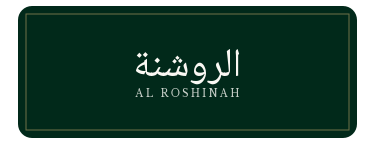
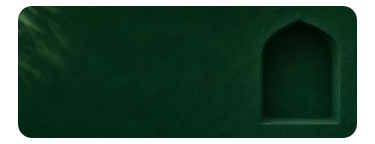
The member card as a picture: Al Roshinah's card is a green plaster wall with the arched niche its name comes from, the niche holds the visit count and is lit while a gift is waiting, on the page and on the Wallet strip; a large QR block under the card; the join preview shows the same card face; gla

diff --git a/web/src/app/visit.css b/web/src/app/visit.css
@@ -198,3 +198,37 @@ img.vc-mark { width: auto; height: 15cqw; }
   .look-matte .ow-side > .ow-chip:not(.ow-lock) { grid-area: lang; }
 }
 .look-matte .ow-sample { letter-spacing: 0.02em; text-transform: none; font-weight: 500; line-height: 1.45; padding: 8px 12px; }
+
+/* ---- The card as a picture (lib/venueArt.ts): the venue's own subject is the face of the card. The open space in
+   the picture holds the visit count; the second picture (the light on) fades in while a gift is waiting. The QR sits
+   under the card, large, where a till scanner reads it fastest. In Arabic the picture is mirrored with the text. ---- */
+.vca { padding: 0; overflow: hidden; isolation: isolate; border-radius: 4.6cqw; background: var(--bg); box-shadow: 0 26px 60px rgb(0 0 0 / 0.42), inset 0 0 0 1px rgb(255 255 255 / 0.1); }
+.vca-face { position: absolute; inset: 0; width: 100%; height: 100%; object-fit: cover; z-index: -2; }
+.vca-lit { opacity: 0; transition: opacity 1.4s ease; z-index: -1; }
+.vca.lit .vca-lit { opacity: 1; }
+[dir="rtl"] .vca-face { transform: scaleX(-1); }
+.vca-shade { position: absolute; inset: 0; z-index: -1; background: linear-gradient(to right, rgb(0 14 8 / 0.36), rgb(0 14 8 / 0.1) 46%, transparent 60%); }
+[dir="rtl"] .vca-shade { background: linear-gradient(to left, rgb(0 14 8 / 0.36), rgb(0 14 8 / 0.1) 46%, transparent 60%); }
+.vca::after { content: ""; position: absolute; inset: 0; border-radius: inherit; box-shadow: inset 0 0 0 1px rgb(255 255 255 / 0.12); pointer-events: none; }
+.vca .vca-mark { position: absolute; inset-block-start: 6.6cqw; inset-inline-start: 6.6cqw; }
+.vca-who { position: absolute; inset-block-end: 6.4cqw; inset-inline-start: 6.6cqw; max-width: 50%; }
+.vca-who .vc-name { margin: 0; font-size: clamp(17px, 5.4cqw, 24px); }
+.vca-who .vc-since { margin-block-start: 1.2cqw; color: rgb(255 255 255 / 0.78); }
+.vca-count { position: absolute; margin: 0; display: grid; align-content: center; justify-items: center; gap: 1cqw; text-align: center; }
+.vca-count b { font: 400 clamp(34px, 13.5cqw, 60px)/1 var(--serif); font-variant-numeric: lining-nums tabular-nums; color: var(--text); text-shadow: 0 1px 16px rgb(0 0 0 / 0.5); }
+.vca-count small { font-size: clamp(12px, 3.1cqw, 14px); color: rgb(255 255 255 / 0.84); text-shadow: 0 1px 10px rgb(0 0 0 / 0.5); }
+.vq { display: grid; grid-template-columns: auto minmax(0, 1fr); align-items: center; gap: 18px; margin-block-start: 14px; padding: 14px; border: 1px solid var(--line); border-radius: var(--r-lg); background: var(--bg); }
+.vq-qr { display: block; width: 132px; height: 132px; padding: 10px; border-radius: 12px; background: var(--text); image-rendering: pixelated; }
+.vq-lead { font: 400 19px/1.25 var(--serif); }
+.vq-code { margin-block-start: 10px; }
+.vq-code small { display: block; color: var(--muted); font-size: var(--fs-sm); }
+.vq-code b { display: block; font: 400 30px/1.15 var(--serif); letter-spacing: 0.12em; font-variant-numeric: lining-nums tabular-nums; }
+.vq-last { margin-block-start: 6px; color: var(--muted); font-size: var(--fs-sm); }
+@media (max-width: 350px) { .vq { gap: 12px; } .vq-qr { width: 112px; height: 112px; } }
+/* The join page's preview is the same card face. */
+html[style*="--venue-card"] .jp { background: var(--venue-card) right center / cover no-repeat, var(--bg); min-height: 0; aspect-ratio: 428 / 270; border-radius: 18px; }
+html[style*="--venue-card"] [dir="rtl"] .jp { background-position: left center; }
+html[style*="--venue-card"] .jp .jp-mark { inset-inline-start: 20px; inset-inline-end: auto; inset-block-start: 20px; }
+html[style*="--venue-card"] .jp .jp-code { display: none; }
+html[style*="--venue-card"] .jp .jp-name, html[style*="--venue-card"] .jp .jp-venue { max-width: 52%; }
+@media (prefers-reduced-motion: reduce) { .vca-lit { transition: none; } }

diff --git a/web/src/app/glass.css b/web/src/app/glass.css
@@ -6,13 +6,13 @@
  * one light edge on top and one soft shadow. Nothing glows and nothing moves. Drawn from the brand tokens only.
  */
 .look-glass {
-  --g-tint: color-mix(in srgb, var(--bg) 36%, transparent);
+  --g-tint: color-mix(in srgb, var(--bg) 50%, transparent);
   --g-tint-strong: color-mix(in srgb, var(--bg) 78%, transparent);
-  --g-sheen: linear-gradient(150deg, rgb(255 255 255 / 0.13), rgb(255 255 255 / 0.035) 46%, rgb(255 255 255 / 0.02));
+  --g-sheen: linear-gradient(rgb(255 255 255 / 0.055), rgb(255 255 255 / 0.055));
   --g-line: rgb(255 255 255 / 0.17);
   --g-line-soft: rgb(255 255 255 / 0.1);
   --g-blur: blur(26px) saturate(1.35);
-  --g-shadow: 0 22px 54px rgb(0 0 0 / 0.3), inset 0 1px 0 rgb(255 255 255 / 0.16);
+  --g-shadow: 0 16px 40px rgb(0 0 0 / 0.22), inset 0 1px 0 rgb(255 255 255 / 0.14);
   --g-field: rgb(0 0 0 / 0.2);
   --r-tight: 16px;
   --r-xs: 10px;
@@ -46,7 +46,7 @@
 .look-glass :is(.si-owner-a, .si-owner-b)::before, .look-glass :is(.si-owner-a, .si-owner-b)::after { display: none; }
 
 /* ---- The pane: every surface that used to be a flat box ---- */
-.look-glass :is(.pane, .panel, .jp, .welcome, .vc, .gs-wait, .st-v, .msg, .ow-panel, .ow-box, .ow-quick-card, .pp-card, .si-card, .dv-card, .ow-sample, .st-unlocked) {
+.look-glass :is(.pane, .panel, .welcome, .vq, .gs-wait, .st-v, .msg, .ow-panel, .ow-box, .ow-quick-card, .pp-card, .si-card, .dv-card, .ow-sample, .st-unlocked) {
   background: var(--g-sheen), var(--g-tint);
   border: 1px solid var(--g-line);
   -webkit-backdrop-filter: var(--g-blur);
@@ -55,14 +55,13 @@
 }
 .look-glass .pane::before { display: none; }
 .look-glass :is(.pane, .panel, .ow-panel, .pp-card) { border-radius: var(--r-xl); }
-.look-glass .vc { border-radius: 5cqw; box-shadow: var(--g-shadow), inset 0 0 0 1px rgb(var(--gold-rgb) / 0.4); }
 .look-glass .gs-wait { border-style: solid; }
 .look-glass .st-v.ready { border-color: rgb(var(--gold-rgb) / 0.75); box-shadow: var(--g-shadow), inset 0 0 0 1px rgb(var(--gold-rgb) / 0.5); }
 .look-glass .st-v.done { border-color: var(--ok); }
 .look-glass .msg.ok { border-color: var(--ok); }
 .look-glass .msg.warn { border-color: var(--gold); }
 .look-glass .msg.bad { border-color: var(--bad); }
-.look-glass .ow-sample { border-radius: var(--r-md); padding: 10px 14px; }
+.look-glass .ow-sample { border-radius: var(--r-md); padding: 10px 14px; margin-block-start: 14px; }
 
 /* Text sits a little brighter on glass than on the flat ground. */
 .look-glass { --muted: color-mix(in srgb, var(--text) 82%, var(--bg)); --dim: color-mix(in srgb, var(--text) 64%, var(--bg)); }
@@ -86,7 +85,7 @@
 
 /* ---- Guest pages ---- */
 .look-glass .vh-title { text-shadow: 0 1px 18px rgb(0 0 0 / 0.35); }
-.look-glass .jp { border-radius: var(--r-xl); }
+.look-glass .jp { border: 0; box-shadow: 0 22px 54px rgb(0 0 0 / 0.38), inset 0 0 0 1px rgb(255 255 255 / 0.12); }
 .look-glass .pl-list { border: 0; display: grid; gap: 12px; }
 .look-glass .pl-item { padding: 18px 20px; border: 1px solid var(--g-line); border-radius: var(--r-lg); background: var(--g-sheen), var(--g-tint); -webkit-backdrop-filter: var(--g-blur); backdrop-filter: var(--g-blur); box-shadow: var(--g-shadow); }
 .look-glass .hm-steps li { padding: 16px 18px; border: 1px solid var(--g-line); border-radius: var(--r-lg); background: var(--g-sheen), var(--g-tint); -webkit-backdrop-filter: var(--g-blur); backdrop-filter: var(--g-blur); }

diff --git a/web/src/components/VisitCard.tsx b/web/src/components/VisitCard.tsx
@@ -1,6 +1,6 @@
 import VenueMark from "./VenueMark";
 
-type Labels = { aria: string; code: string; since: string; visits: string; lastVisit: string; noVisit: string; qrAlt: string };
+type Labels = { aria: string; code: string; since: string; visits: string; lastVisit: string; noVisit: string; qrAlt: string; show?: string };
 
 type Props = {
   venueName: string;
@@ -11,6 +11,10 @@ type Props = {
   qr: string; // data URL of the till QR
   visits: number;
   labels: Labels;
+  /** The venue's own card picture (lib/venueArt.ts). With it the card is the picture and the QR moves under the card. */
+  art?: { src: string; lit: string | null; niche: { x: number; y: number; w: number; h: number } } | null;
+  /** A gift is waiting: the lit picture is shown. */
+  lit?: boolean;
 };
 
 const ARABIC = /[-ۿݐ-ݿﭐ-﷿ﹰ-]/;
@@ -21,9 +25,41 @@ const ARABIC = /[-ۿݐ-ݿﭐ-﷿ﹰ-]/;
  * with the card width (container units) but text never goes under 12px. Same layout as the Wallet pass, so the two
  * read as one object.
  */
-export default function VisitCard({ venueName, venueSlug, markType, memberName, code, qr, visits, labels }: Props) {
+export default function VisitCard({ venueName, venueSlug, markType, memberName, code, qr, visits, labels, art = null, lit = false }: Props) {
   const arabic = ARABIC.test(memberName);
   const name = memberName.trim();
+  if (art) {
+    const n = art.niche;
+    return (
+      <div className="vc-wrap">
+        <section className={`vc vca${lit && art.lit ? " lit" : ""}`} aria-label={labels.aria}>
+          {/* eslint-disable-next-line @next/next/no-img-element -- the card face, a local file sized by the card */}
+          <img className="vca-face" src={art.src} alt="" width={1284} height={810} />
+          {/* eslint-disable-next-line @next/next/no-img-element -- the same picture with the light on; fades in over the first */}
+          {art.lit && <img className="vca-face vca-lit" src={art.lit} alt="" width={1284} height={810} aria-hidden="true" />}
+          <div className="vca-shade" aria-hidden="true" />
+          <VenueMark name={venueName} slug={venueSlug} type={markType} className="vc-mark vca-mark" size={64} />
+          <p className="vca-count" style={{ insetInlineEnd: `${100 - n.x - n.w}%`, top: `${n.y}%`, width: `${n.w}%`, height: `${n.h}%` }}>
+            <b>{visits}</b>
+            <small>{labels.visits}</small>
+          </p>
+          <div className="vca-who">
+            <p className={`vc-name${name.length > 18 ? " long" : ""}${arabic ? " ar" : ""}`} dir="auto" lang={arabic ? "ar" : undefined}>{name}</p>
+            <p className="vc-since">{labels.since}</p>
+          </div>
+        </section>
+        <section className="vq" aria-label={labels.code}>
+          {/* eslint-disable-next-line @next/next/no-img-element -- data URL QR code */}
+          <img className="vq-qr" src={qr} alt={labels.qrAlt} width={148} height={148} />
+          <div className="vq-text">
+            <p className="vq-lead">{labels.show ?? labels.code}</p>
+            <p className="vq-code"><small>{labels.code}</small><b dir="ltr">{code}</b></p>
+            <p className="vq-last">{visits > 0 ? labels.lastVisit : labels.noVisit}</p>
+          </div>
+        </section>
+      </div>
+    );
+  }
   return (
     <div className="vc-wrap">
       <section className="vc" aria-label={labels.aria}>

diff --git a/web/src/lib/venueArt.ts b/web/src/lib/venueArt.ts
@@ -1,0 +1,35 @@
+import "server-only";
+import { existsSync, readFileSync } from "node:fs";
+import path from "node:path";
+
+/**
+ * A venue's own card picture (scripts/card-art-photo.mjs): public/venues/<slug>/card.webp, an optional card-lit.webp
+ * for "a gift is waiting", and card.json saying where the picture's open space is. A venue without these files keeps
+ * the plain card. Read from disk once per slug.
+ */
+export type CardArt = { src: string; lit: string | null; niche: { x: number; y: number; w: number; h: number } };
+
+const cache = new Map<string, CardArt | null>();
+
+export function cardArt(slug: string): CardArt | null {
+  if (!/^[a-z0-9-]+$/.test(slug)) return null;
+  if (cache.has(slug)) return cache.get(slug)!;
+  let art: CardArt | null = null;
+  try {
+    const dir = path.join(process.cwd(), "public", "venues", slug);
+    if (existsSync(path.join(dir, "card.webp"))) {
+      const meta = JSON.parse(readFileSync(path.join(dir, "card.json"), "utf8")) as { niche?: Partial<CardArt["niche"]> };
+      const n = meta.niche ?? {};
+      const pct = (v: unknown, d: number) => (typeof v === "number" && v >= 0 && v <= 100 ? v : d);
+      art = {
+        src: `/venues/${slug}/card.webp`,
+        lit: existsSync(path.join(dir, "card-lit.webp")) ? `/venues/${slug}/card-lit.webp` : null,
+        niche: { x: pct(n.x, 60), y: pct(n.y, 20), w: pct(n.w, 32), h: pct(n.h, 64) },
+      };
+    }
+  } catch {
+    art = null;
+  }
+  cache.set(slug, art);
+  return art;
+}

diff --git a/web/src/lib/appleWallet.ts b/web/src/lib/appleWallet.ts
@@ -158,6 +158,18 @@ function cardStripImages(slug: string): Record<string, Buffer> {
   return files;
 }
 
+/** "A gift is waiting" strip (passes/<venue>/lit/strip*.png): the same picture with the light on. Empty when the venue has none. */
+function litStripImages(slug: string): Record<string, Buffer> {
+  const dir = path.join(process.cwd(), "passes", slug, "lit");
+  const files: Record<string, Buffer> = {};
+  try {
+    for (const name of readdirSync(dir)) if (/^strip(@[23]x)?\.png$/.test(name)) files[name] = readFileSync(path.join(dir, name));
+  } catch {
+    /* no lit strip for this venue */
+  }
+  return files;
+}
+
 /** The per-card secret Apple sends back when it asks for updates. Created on first use. */
 export async function authTokenFor(cardId: string): Promise<string> {
   const { data, error } = await db().from("cards").select("apple_auth_token").eq("id", cardId).single();
@@ -223,6 +235,8 @@ export async function buildPass(venue: Venue, card: Card, memberName: string, ba
   if (preview === "qr") Object.assign(images, await qrStripImages(venue.slug, qrMessage(venue.slug, card.code, card.id)));
   if (preview === "card") Object.assign(images, cardStripImages(venue.slug));
   if (ladderStrip) Object.assign(images, ladderStrip);
+  // Visit card with a gift ready: the niche on the card is lit, on the lock screen too.
+  if (visitMode && gift && !preview) Object.assign(images, litStripImages(venue.slug));
   const pass = new PKPass(
     images,
     appleCertificates(),

diff --git a/web/src/app/card/[cardId]/page.tsx b/web/src/app/card/[cardId]/page.tsx
@@ -14,6 +14,8 @@ import { directionOf } from "@/i18n/locale";
 import { getTranslations } from "next-intl/server";
 import { connection } from "next/server";
 import type { CardView } from "@/lib/cards";
+import { cardArt } from "@/lib/venueArt";
+import { voucherState } from "@/lib/vouchers";
 import VisitCard from "@/components/VisitCard";
 import { cardVouchers, listVouchers } from "@/lib/vouchersDb";
 import { listBranches } from "@/lib/branchesDb";
@@ -144,7 +146,10 @@ async function VisitCardPage({ view, locale, ar, welcome }: { view: CardView; lo
         code={card.code}
         qr={qr}
         visits={card.visits}
+        art={cardArt(venue.slug)}
+        lit={vouchers.some((v) => voucherState(v) === "ready")}
         labels={{
+          show: t("show"),
           aria: t("aria", { venue: venue.name }),
           code: t("code"),
           since: card.created_at ? t("since", { date: shortDate(card.created_at, ar) }) : "",

diff --git a/web/src/app/layout.tsx b/web/src/app/layout.tsx
@@ -6,6 +6,7 @@ import "./ground.css";
 import "./screens.css";
 import "./visit.css";
 import "./glass.css";
+import { cardArt } from "@/lib/venueArt";
 import "@/components/motion.css";
 import { brandColors, brandFinish, brandName, brandStyle, brandVenue, usesOrbynLook } from "@/lib/brand";
 
@@ -43,6 +44,7 @@ export default function RootLayout({ children }: LayoutProps<"/">) {
   const style = {
     ...brandStyle(),
     "--brand-marble": `url("/venues/${venue}/marble.jpg")`,
+    ...(cardArt(venue) ? { "--venue-card": `url("${cardArt(venue)!.src}")` } : {}),
     ...(finish === "glass" ? { "--glass-photo-p": `url("/venues/${venue}/glass-portrait.webp")`, "--glass-photo-w": `url("/venues/${venue}/glass-wide.webp")` } : {}),
   } as CSSProperties;
   return (
